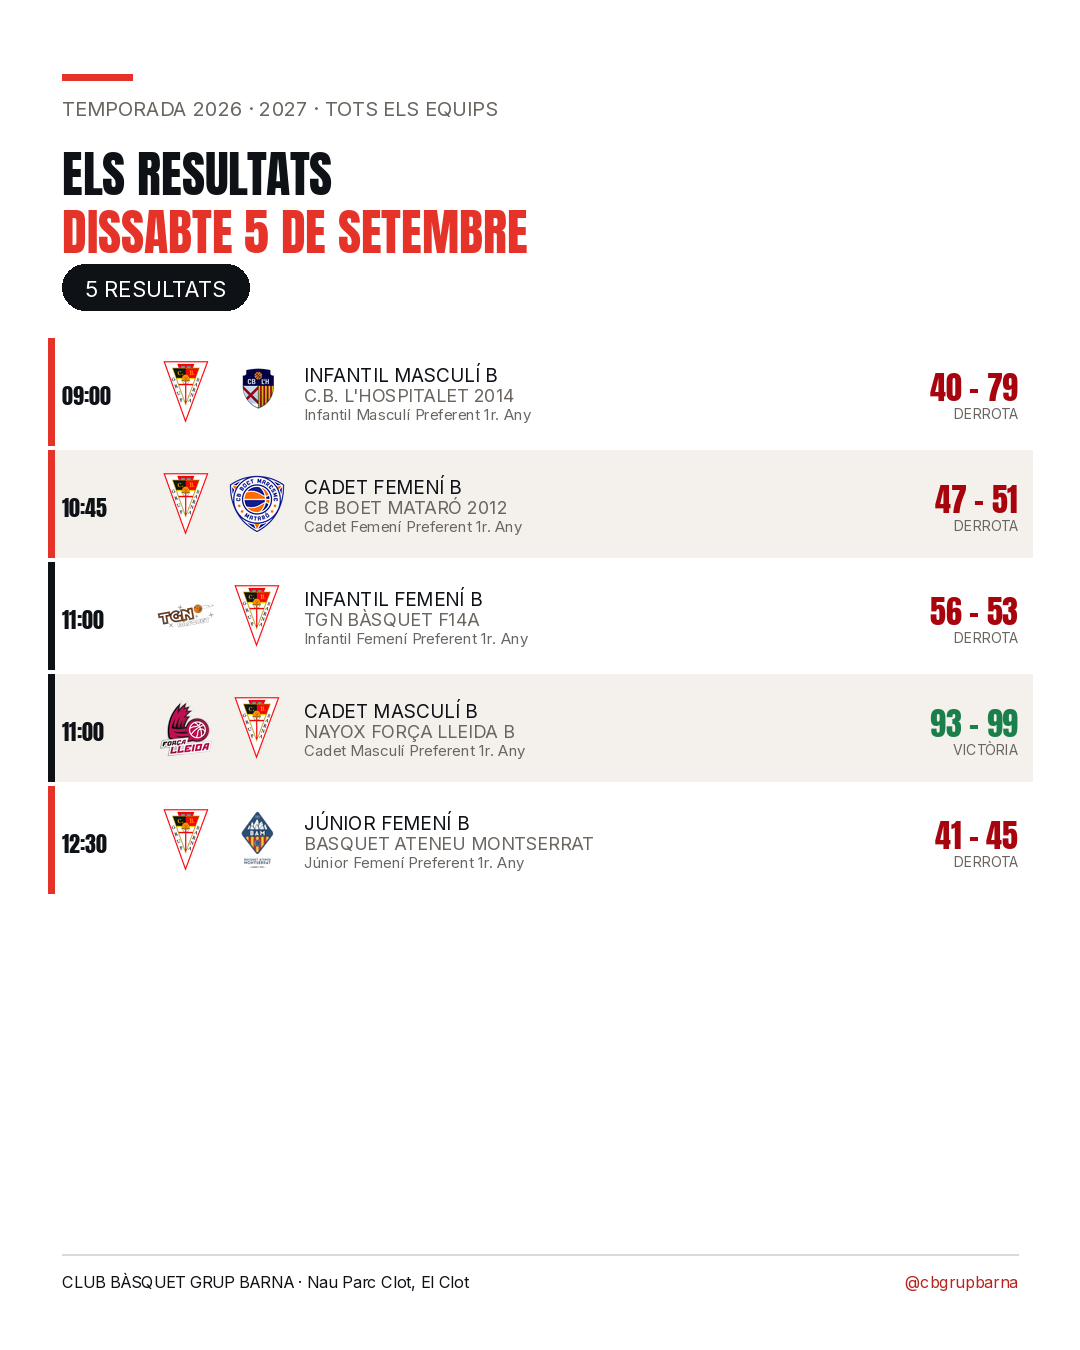
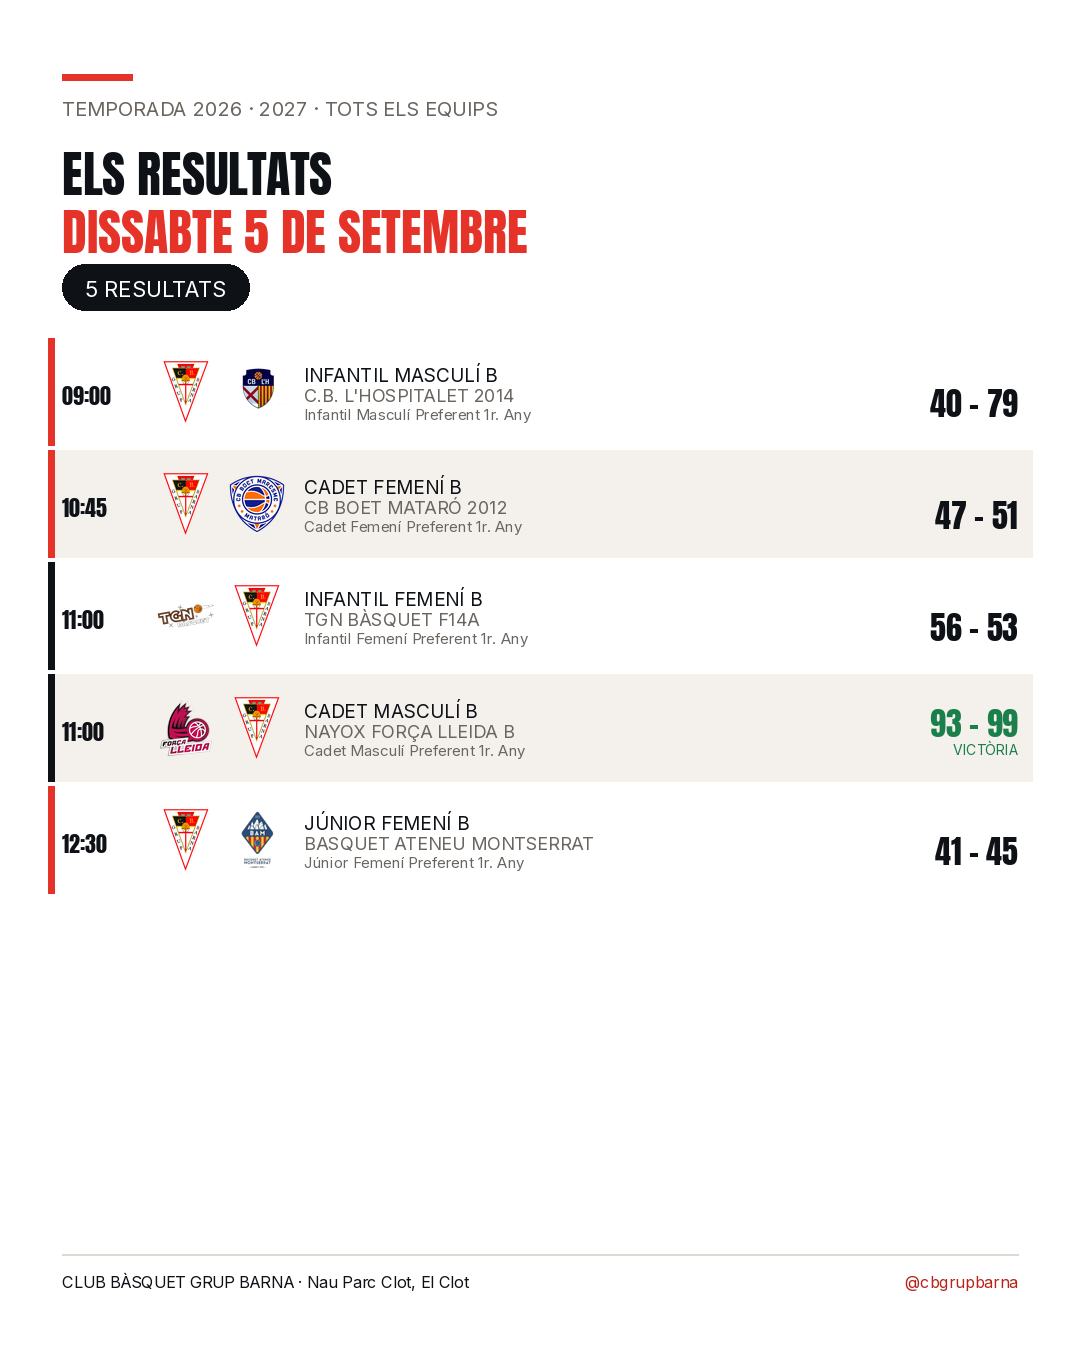
Resultats: el que faltava, i el cartell segueix el criteri de l'Ana
Tres coses, totes sobre el sistema que ja hi ha publicat.

1 · EL RESULTAT QUE FALTAVA

Junior Femeni A 64-59 a TGN Basquet F09A (6/09). A la web sortia com
"Sense resultat" des de fa cinc dies: el robot de la FCBQ no el pot
portar i ningu l'havia entrat. La jornada 1 queda 7 de 7.

2 · EL CARTELL NOMES MARCA LA VICTORIA

Als partits perduts ja no s'hi escriu "DERROTA": el marcador ja ho diu i
repetir-ho es fer sang. El seu marcador passa de vermell a tinta normal,
aixi que el que es perd no queda distingit nomes pel color -- regla del
sistema visual -- i el que es guanya destaca de debo.

3 · PORTADA DEL CARRUSEL

Una portada per cap de setmana, la slide 1: no avanca res (ni balanc ni
titular que digui com ha anat, perque si la portada ho diu ningu llisca).
Hi surt que s'ha jugat, quants equips i prou. Es genera sola amb la
resta, i s'enllaca des del bloc de resultats.

El camp "disseny" del hash puja a 3: es el que fa que els cartells ja
publicats es tornin a dibuixar amb el criteri nou.

Queda anotat al tauler per que el robot no pot portar resultats: la FCBQ
ha posat un reCAPTCHA i respon 403. El problema de fons no es el bloqueig
sino que el robot calla -- surt en verd sense haver fet res.

Comprovat: els tres cartells generats i mirats un a un, els enllacos de
descarrega responen 200 al navegador, lint sense errors nous, i els
avisos de paritat i a11y son els que ja hi havia a main.

Claude-Session: https://claude.ai/code/session_01AGMioiTCHeaX19TiMUPhTa

diff --git a/partits/index.html b/partits/index.html
@@ -641,6 +641,12 @@
         var jorR = RESULTATS_J[dia];
         var dlR = jorR ? ' <a class="day-dl" href="calendaris/descarrega/jornades/resultats-' + dia + '.' + jorR.tipus +
           '" target="_blank" rel="noopener" data-cta="resultats-descarrega">⬇ Descarrega el cartell</a>' : '';
+        /* La portada del carrusel penja del primer dia del cap de setmana:
+           és la slide 1 i les dels dies van després. */
+        if (jorR && jorR.portada) {
+          dlR += ' <a class="day-dl" href="calendaris/descarrega/jornades/' + jorR.portada +
+            '" target="_blank" rel="noopener" data-cta="resultats-portada">⬇ Portada del carrusel</a>';
+        }
         return '<h3 class="day-h">' + diaLlarg(dia) + dlR + '</h3>' +
           diesR[dia].map(function (p) { return filaResultat(p, equips[p.equipId]); }).join('');
       }).join('');

diff --git a/.github/scripts/generate-calendaris.py b/.github/scripts/generate-calendaris.py
@@ -21,7 +21,7 @@ per consola i es continua amb la resta — mai talla tot el procés.
 import hashlib
 import json
 import re
-from datetime import date
+from datetime import date, timedelta
 from pathlib import Path
 
 from PIL import Image, ImageDraw, ImageFont
@@ -327,18 +327,21 @@ def pagina_jornada(etiqueta, files, equips_nom, equips_comp, pag_idx, n_pags, te
             pl, pv = p.get("puntsLocal"), p.get("puntsVisitant")
             if pl is not None and pv is not None:
                 nostres, seus = (pl, pv) if p["casa"] else (pv, pl)
-                if nostres > seus:
-                    color, tag = VERD, "VICTÒRIA"
-                elif nostres < seus:
-                    color, tag = DERROTA, "DERROTA"
-                else:
-                    color, tag = INK, "EMPAT"
+                # Només es marca la VICTÒRIA (decisió de l'Ana, 07/09/2026).
+                # Als partits perduts no s'hi escriu «derrota»: el marcador ja
+                # ho diu i repetir-ho és fer sang. Per això el seu marcador va
+                # en tinta normal i no en vermell — així el que es perd no
+                # queda distingit només pel color, que és la regla del sistema
+                # visual, i el que es guanya destaca de debò.
+                color, tag = (VERD, "VICTÒRIA") if nostres > seus else (INK, "")
                 marc = f"{pl} - {pv}"
                 f_marc = font(F_ANTON, 32)
                 mw = text_w(dr, marc, f_marc)
-                dr.text((W - MARGIN - mw, cy - 28), marc, font=f_marc, fill=color)
-                tw = text_w(dr, tag, f_tag)
-                dr.text((W - MARGIN - tw, cy + 14), tag, font=f_tag, fill=MUTED)
+                dr.text((W - MARGIN - mw, cy - 28 if tag else cy - 12), marc,
+                        font=f_marc, fill=color)
+                if tag:
+                    tw = text_w(dr, tag, f_tag)
+                    dr.text((W - MARGIN - tw, cy + 14), tag, font=f_tag, fill=VERD)
             else:
                 tag = "PENDENT"
                 tw = text_w(dr, tag, f_tag)
@@ -411,6 +414,71 @@ def genera_jornades(data, temporada):
     return sortida
 
 
+def portada_resultats(dies, n_equips, temporada):
+    """La slide 1 del carrusel de resultats: UNA per cap de setmana.
+
+    NO avança res (decisió de l'Ana, 07/09/2026): ni el balanç ni un titular
+    que digui com ha anat. Si la portada ja ho diu, ningú llisca — i el que ha
+    de fer és obrir el carrusel, no resumir-lo. Per això hi surt què s'ha
+    jugat i quants equips, i prou.
+
+    Mateix llenç i mateix llenguatge que els cartells de dia: es publiquen
+    seguits i s'han de veure de la mateixa família."""
+    im = Image.new("RGB", (W, H), PAPER)
+    dr = ImageDraw.Draw(im)
+
+    dr.rectangle([MARGIN, 74, MARGIN + 70, 80], fill=RED)
+    dr.text((MARGIN, 96), f"TEMPORADA {temporada} · TOTS ELS EQUIPS".upper(),
+            font=font(F_BOLD, 20), fill=MUTED)
+
+    # Les dues paraules manen i ocupen l'amplada; la resta penja a sota, de
+    # manera que el conjunt reparteix el llenç en comptes de quedar-se a dalt.
+    y = 300
+    dr.text((MARGIN, y), "ELS", font=font(F_ANTON, 150), fill=INK)
+    dr.text((MARGIN, y + 156), "RESULTATS", font=font(F_ANTON, 150), fill=RED)
+
+    # El bloc de dades baixa fins a prop del peu: amb tot arrapat sota el
+    # títol quedava un terç del cartell buit.
+    y = H - 470
+    dr.rectangle([MARGIN, y, MARGIN + 110, y + 7], fill=RED)
+
+    y += 54
+    # La data, curta. Amb el dia sencer dues vegades sortia «5 I DIUMENGE 6
+    # DE SETEMBRE»; els noms dels dies ja els diuen les slides següents.
+    if len(dies) == 1:
+        quan = dia_llarg(dies[0]).upper()
+    else:
+        d0, d1 = date.fromisoformat(dies[0]), date.fromisoformat(dies[-1])
+        if d0.month == d1.month:
+            # «diumenge 6 de setembre» → «6 de setembre»
+            sense_dia = dia_llarg(dies[-1]).split(" ", 1)[1]
+            quan = f"{d0.day} I {sense_dia}".upper()
+        else:
+            quan = f"{dia_llarg(dies[0]).upper()} I {dia_llarg(dies[-1]).upper()}"
+    dr.text((MARGIN, y), quan, font=font(F_ANTON, 40), fill=INK)
+
+    y += 66
+    dr.text((MARGIN, y), f"{n_equips} EQUIP{'' if n_equips == 1 else 'S'} DEL BARNA A LA PISTA",
+            font=font(F_BOLD, 24), fill=MUTED)
+
+    y += 62
+    # Sense fletxa: les fonts del generador no en tenen el glifo i sortia un
+    # quadrat buit. La píndola ja fa d'indicador.
+    crida = "LLISCA PER VEURE COM HA ANAT"
+    f_pill = font(F_BOLD, 22)
+    pw = text_w(dr, crida, f_pill) + 46
+    dr.rounded_rectangle([MARGIN, y, MARGIN + pw, y + 46], radius=23, fill=INK)
+    dr.text((MARGIN + 23, y + 11), crida, font=f_pill, fill=PAPER)
+
+    dr.line([MARGIN, H - 118, W - MARGIN, H - 118], fill=(220, 216, 210), width=2)
+    dr.text((MARGIN, H - 96), "CLUB BÀSQUET GRUP BARNA · Nau Parc Clot, El Clot",
+            font=font(F_MED, 20), fill=INK)
+    marca = "@cbgrupbarna"
+    dr.text((W - MARGIN - text_w(dr, marca, font(F_MED, 20)), H - 96), marca,
+            font=font(F_MED, 20), fill=RED)
+    return im
+
+
 def genera_resultats(data, temporada):
     """El cartell de resultats de cada DIA ja jugat: mateix format que el
     de la jornada (escuts, equip, rival i categoria) però amb el marcador a
@@ -456,7 +524,35 @@ def genera_resultats(data, temporada):
             tipus = "pdf"
         sortida.append({"clau": iso, "etiqueta": etiqueta, "tipus": tipus,
                         "partits": len(partits), "dates": [iso]})
-    print(f"[resultats] {len(sortida)} cartells de resultats")
+
+    # La portada del carrusel: una per cap de setmana, no una per dia. El
+    # carrusel d'Instagram és portada + un dia per slide, i per això s'agrupa
+    # pel dilluns de la setmana de cada dia amb resultats.
+    per_setmana = {}
+    for e in sortida:
+        iso = e["clau"]
+        d = date.fromisoformat(iso)
+        dilluns = (d - timedelta(days=d.weekday())).isoformat()
+        per_setmana.setdefault(dilluns, []).append(iso)
+    portades = 0
+    for dilluns, dies in sorted(per_setmana.items()):
+        dies = sorted(dies)
+        equips = {p["equipId"] for iso in dies for p in per_dia[iso]
+                  if p.get("puntsLocal") is not None and p.get("puntsVisitant") is not None}
+        im = portada_resultats(dies, len(equips), temporada)
+        slug = f"resultats-portada-{dilluns}"
+        im.resize((700, round(700 * H / W)), Image.LANCZOS).save(
+            OUT_IMG / "jornades" / f"{slug}.webp", "WEBP", quality=84, method=6)
+        im.save(OUT_DL / "jornades" / f"{slug}.png", "PNG", optimize=True)
+        portades += 1
+        # La portada va PRIMER a la llista del seu cap de setmana: és la
+        # slide 1 i l'ordre de la llista és l'ordre de publicació.
+        for e in sortida:
+            if e["clau"] == dies[0]:
+                e["portada"] = f"{slug}.png"
+                break
+
+    print(f"[resultats] {len(sortida)} cartells de resultats · {portades} portades")
     return sortida
 
 
@@ -584,7 +680,10 @@ def main():
     # recull un resultat nou, el cartell es redibuixa tot sol.
     try:
         h_r = hashlib.sha1(json.dumps(
-            {"disseny": 1, "temporada": temporada,
+            # disseny 2 (07/09/2026): només es marca la victòria i s'hi afegeix
+            # la portada del carrusel. Pujar-lo és el que fa que els cartells
+            # ja publicats es tornin a dibuixar amb el disseny nou.
+            {"disseny": 3, "temporada": temporada,
              "partits": [{"data": p["data"], "hora": p["hora"], "casa": p["casa"],
                           "local": p["local"], "visitant": p["visitant"],
                           "equipId": p["equipId"],

diff --git a/PENDENTS-WEB.md b/PENDENTS-WEB.md
@@ -600,3 +600,41 @@ emparellament automàtic, provant també el nom sense sufixos d'equip).
 119 de 120 rivals amb escut; l'únic sense (CB Mollet B) surt amb
 inicials. Per afegir-ne un: PNG a `partits/logos/clubs/`, alta a
 `index.json` i, si cal, l'àlies a `alias.json`.
+
+---
+
+## 07-09-2026 · El robot de la FCBQ està bloquejat per un captcha
+
+**La federació ha posat una verificació de seguretat amb reCAPTCHA.**
+`basquetcatala.cat` respon **HTTP 403 · «Verificació de seguretat · Bàsquet
+Català»** a qualsevol petició automàtica, tant a `/club/24` com a les dues
+adreces que consulta el robot (`calendari_club_global/24` i
+`calendari_club_mensual/24`).
+
+**Conseqüència:** `update-partits.py` no pot portar resultats. Els de la
+jornada 1 s'han entrat a mà.
+
+**I no ho diu ningú.** El robot és defensiu a propòsit —si no troba cap
+partit, surt amb codi 0 i no toca el fitxer, perquè val més quedar-se amb
+les dades velles que esborrar-les— però **surt en verd**. A GitHub Actions
+un workflow que no fa res i un que funciona es veuen igual. Aquesta és la
+part que cal arreglar, més que el robot mateix.
+
+### El captcha no es pot saltar, i no s'ha d'intentar
+
+És exactament la mesura que la federació ha posat per barrar l'accés
+automàtic. Les sortides legítimes són tres:
+
+1. **Demanar accés a la FCBQ** (una API, una clau, o que posin el club a la
+   llista blanca). És l'única que torna a deixar el robot com estava.
+2. **La via manual que ja existeix**: `/partits/` → Gestió permet pujar el
+   PDF de la federació i entrar resultats a mà.
+3. **Que el robot avisi quan no pot entrar**, en comptes de callar: si no
+   troba cap partit dos dies seguits, que deixi una incidència al
+   repositori (com fa `i18n-tradueix.yml`) o un avís al panell d'`/admin/`.
+   Avui `partits/canvis.json` ja hi desa `connexioOk: false`, però no ho
+   llegeix ningú.
+
+> Val la pena reintentar-ho uns dies abans de donar el robot per mort: pot
+> ser una protecció que s'activa per pics de trànsit i no una decisió
+> permanent.
